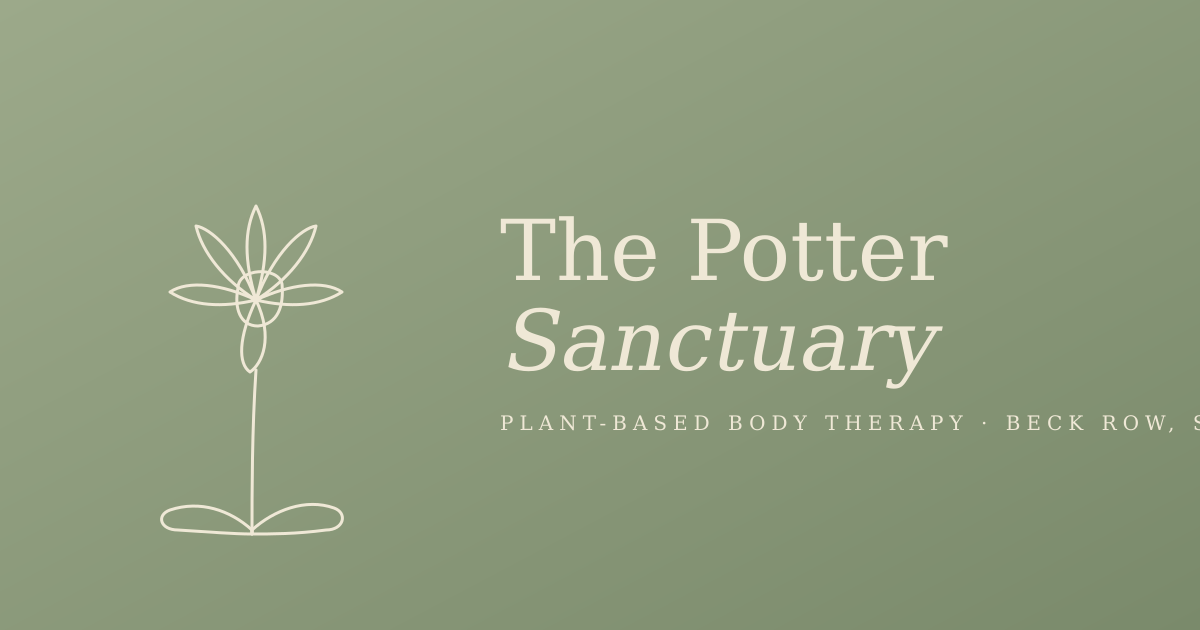
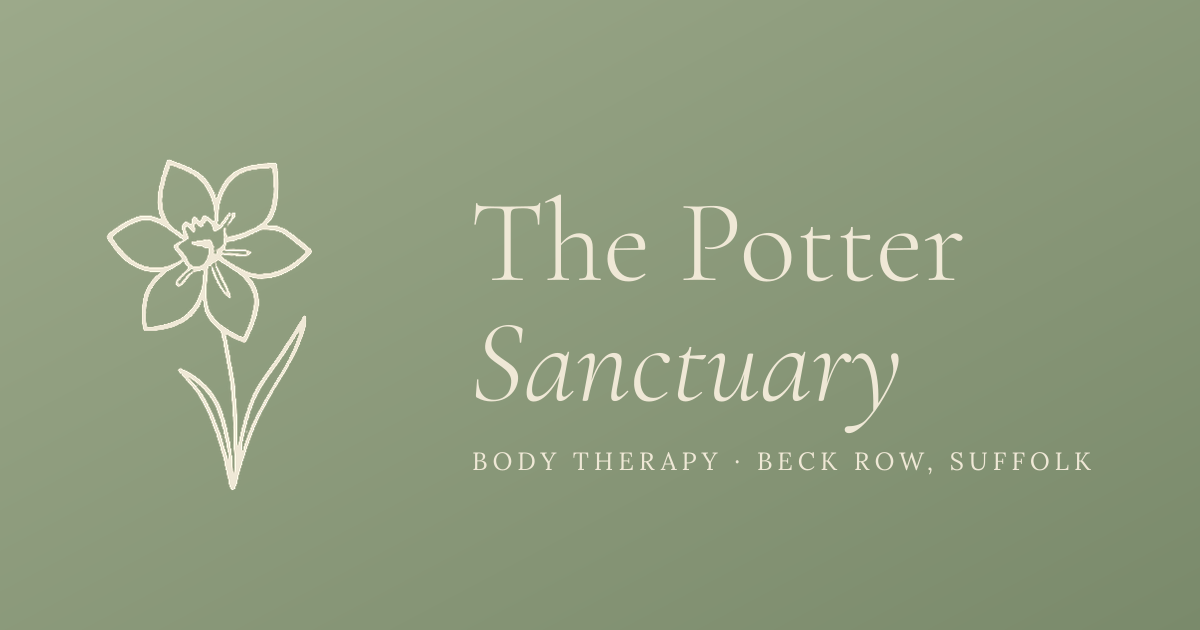
SEO/AEO pre-GSC: real OG image, apex canonicals, studio address
Get the public site cleanly indexable before submitting to Google Search
Console, and fix the social-preview image to use the real brand mark.

- OG image: replace public/og-image.png with a 1200x630 card built from the
  real logo (sanctuary-logo.png — the filled daffodil used across the site),
  "The Potter Sanctuary" wordmark and a "Body Therapy · Beck Row, Suffolk"
  subtitle. The old card used an outdated line-art flower. Delete the unused
  SVG placeholder public/og/default.svg.
- lib/seo.ts: point DEFAULT_OG_IMAGE at /og-image.png so home + service OG/
  Twitter cards and the LocalBusiness JSON-LD image stop emitting the SVG
  placeholder (most platforms don't render SVG previews).
- next-sitemap.config.js: generate the sitemap/robots at the apex host
  (was the non-resolving www host), driven by NEXT_PUBLIC_SITE_URL.
- lib/site.ts: fill the studio address (Lockheed Close, Beck Row, IP28 3AB)
  so it flows into the Footer and JSON-LD PostalAddress; also correct the
  siteConfig.url fallback from the dead www host to the apex (hard rule #4),
  which this branch was still missing.
- app/legal/{privacy,terms,cookies}: emit apex canonical + OG via
  pageMetadata() instead of bare title/description.

https://claude.ai/code/session_01W3DhrgJWmJRoTXymuzTL9K

diff --git a/lib/site.ts b/lib/site.ts
@@ -5,16 +5,15 @@ export const siteConfig = {
     "A private body-therapy studio in Beck Row, Suffolk. Every session is led personally by a fully trained Clarins therapist using whipped, plant-based products made in small batches by Precyse By Nature.",
   url:
     process.env.NEXT_PUBLIC_SITE_URL ?? "https://thepottersanctuary.co.uk",
-  // BEFORE LAUNCH: add the studio's real street address to `streetAddress`
-  // and the contact phone to `contact.phone`. Both render in the Footer
-  // and JSON-LD only when non-empty.
+  // BEFORE LAUNCH: add the contact phone to `contact.phone` — renders in the
+  // Footer and JSON-LD only when non-empty.
   address: {
     // Typed as `string` so consumers can render or omit it conditionally
     // without TS narrowing the literal "" to `never`.
-    streetAddress: "" as string,
+    streetAddress: "Lockheed Close" as string,
     addressLocality: "Beck Row",
     addressRegion: "Suffolk",
-    postalCode: "IP28",
+    postalCode: "IP28 3AB",
     addressCountry: "GB",
   },
   // TODO: confirm coordinates of the studio.

diff --git a/lib/seo.ts b/lib/seo.ts
@@ -2,10 +2,9 @@ import type { Metadata } from "next";
 import { siteConfig } from "./site";
 import type { Service } from "./services";
 
-// TODO: replace with a 1200x630 PNG before launch — most social platforms
-// don't render SVG previews. The SVG below is a placeholder so metadata
-// validates locally.
-const DEFAULT_OG_IMAGE = "/og/default.svg";
+// 1200x630 PNG — most social platforms don't render SVG previews. Used as the
+// default OG/Twitter card image and as the LocalBusiness JSON-LD `image`.
+const DEFAULT_OG_IMAGE = "/og-image.png";
 
 type PageMetaInput = {
   title: string;

diff --git a/app/legal/privacy/page.tsx b/app/legal/privacy/page.tsx
@@ -1,10 +1,11 @@
-import type { Metadata } from "next";
+import { pageMetadata } from "@/lib/seo";
 
-export const metadata: Metadata = {
+export const metadata = pageMetadata({
   title: "Privacy Policy",
   description:
     "How The Potter Sanctuary collects, uses, and safeguards your personal information.",
-};
+  path: "/legal/privacy",
+});
 
 const LAST_UPDATED = "2 May 2026";
 

diff --git a/app/legal/terms/page.tsx b/app/legal/terms/page.tsx
@@ -1,10 +1,11 @@
-import type { Metadata } from "next";
+import { pageMetadata } from "@/lib/seo";
 
-export const metadata: Metadata = {
+export const metadata = pageMetadata({
   title: "Terms of Service",
   description:
     "Terms governing use of The Potter Sanctuary website and the booking of treatments.",
-};
+  path: "/legal/terms",
+});
 
 const LAST_UPDATED = "2 May 2026";
 

diff --git a/app/legal/cookies/page.tsx b/app/legal/cookies/page.tsx
@@ -1,10 +1,11 @@
-import type { Metadata } from "next";
+import { pageMetadata } from "@/lib/seo";
 
-export const metadata: Metadata = {
+export const metadata = pageMetadata({
   title: "Cookies Policy",
   description:
     "How The Potter Sanctuary uses cookies on its website and how you can manage them.",
-};
+  path: "/legal/cookies",
+});
 
 const LAST_UPDATED = "2 May 2026";
 

diff --git a/next-sitemap.config.js b/next-sitemap.config.js
@@ -1,5 +1,5 @@
 module.exports = {
-  siteUrl: 'https://thepottersanctuary.co.uk',
+  siteUrl: process.env.NEXT_PUBLIC_SITE_URL ?? 'https://thepottersanctuary.co.uk',
   generateRobotsTxt: true,
   sitemapSize: 7000,
   exclude: ['/admin', '/admin/*', '/auth/*', '/api/*'],
